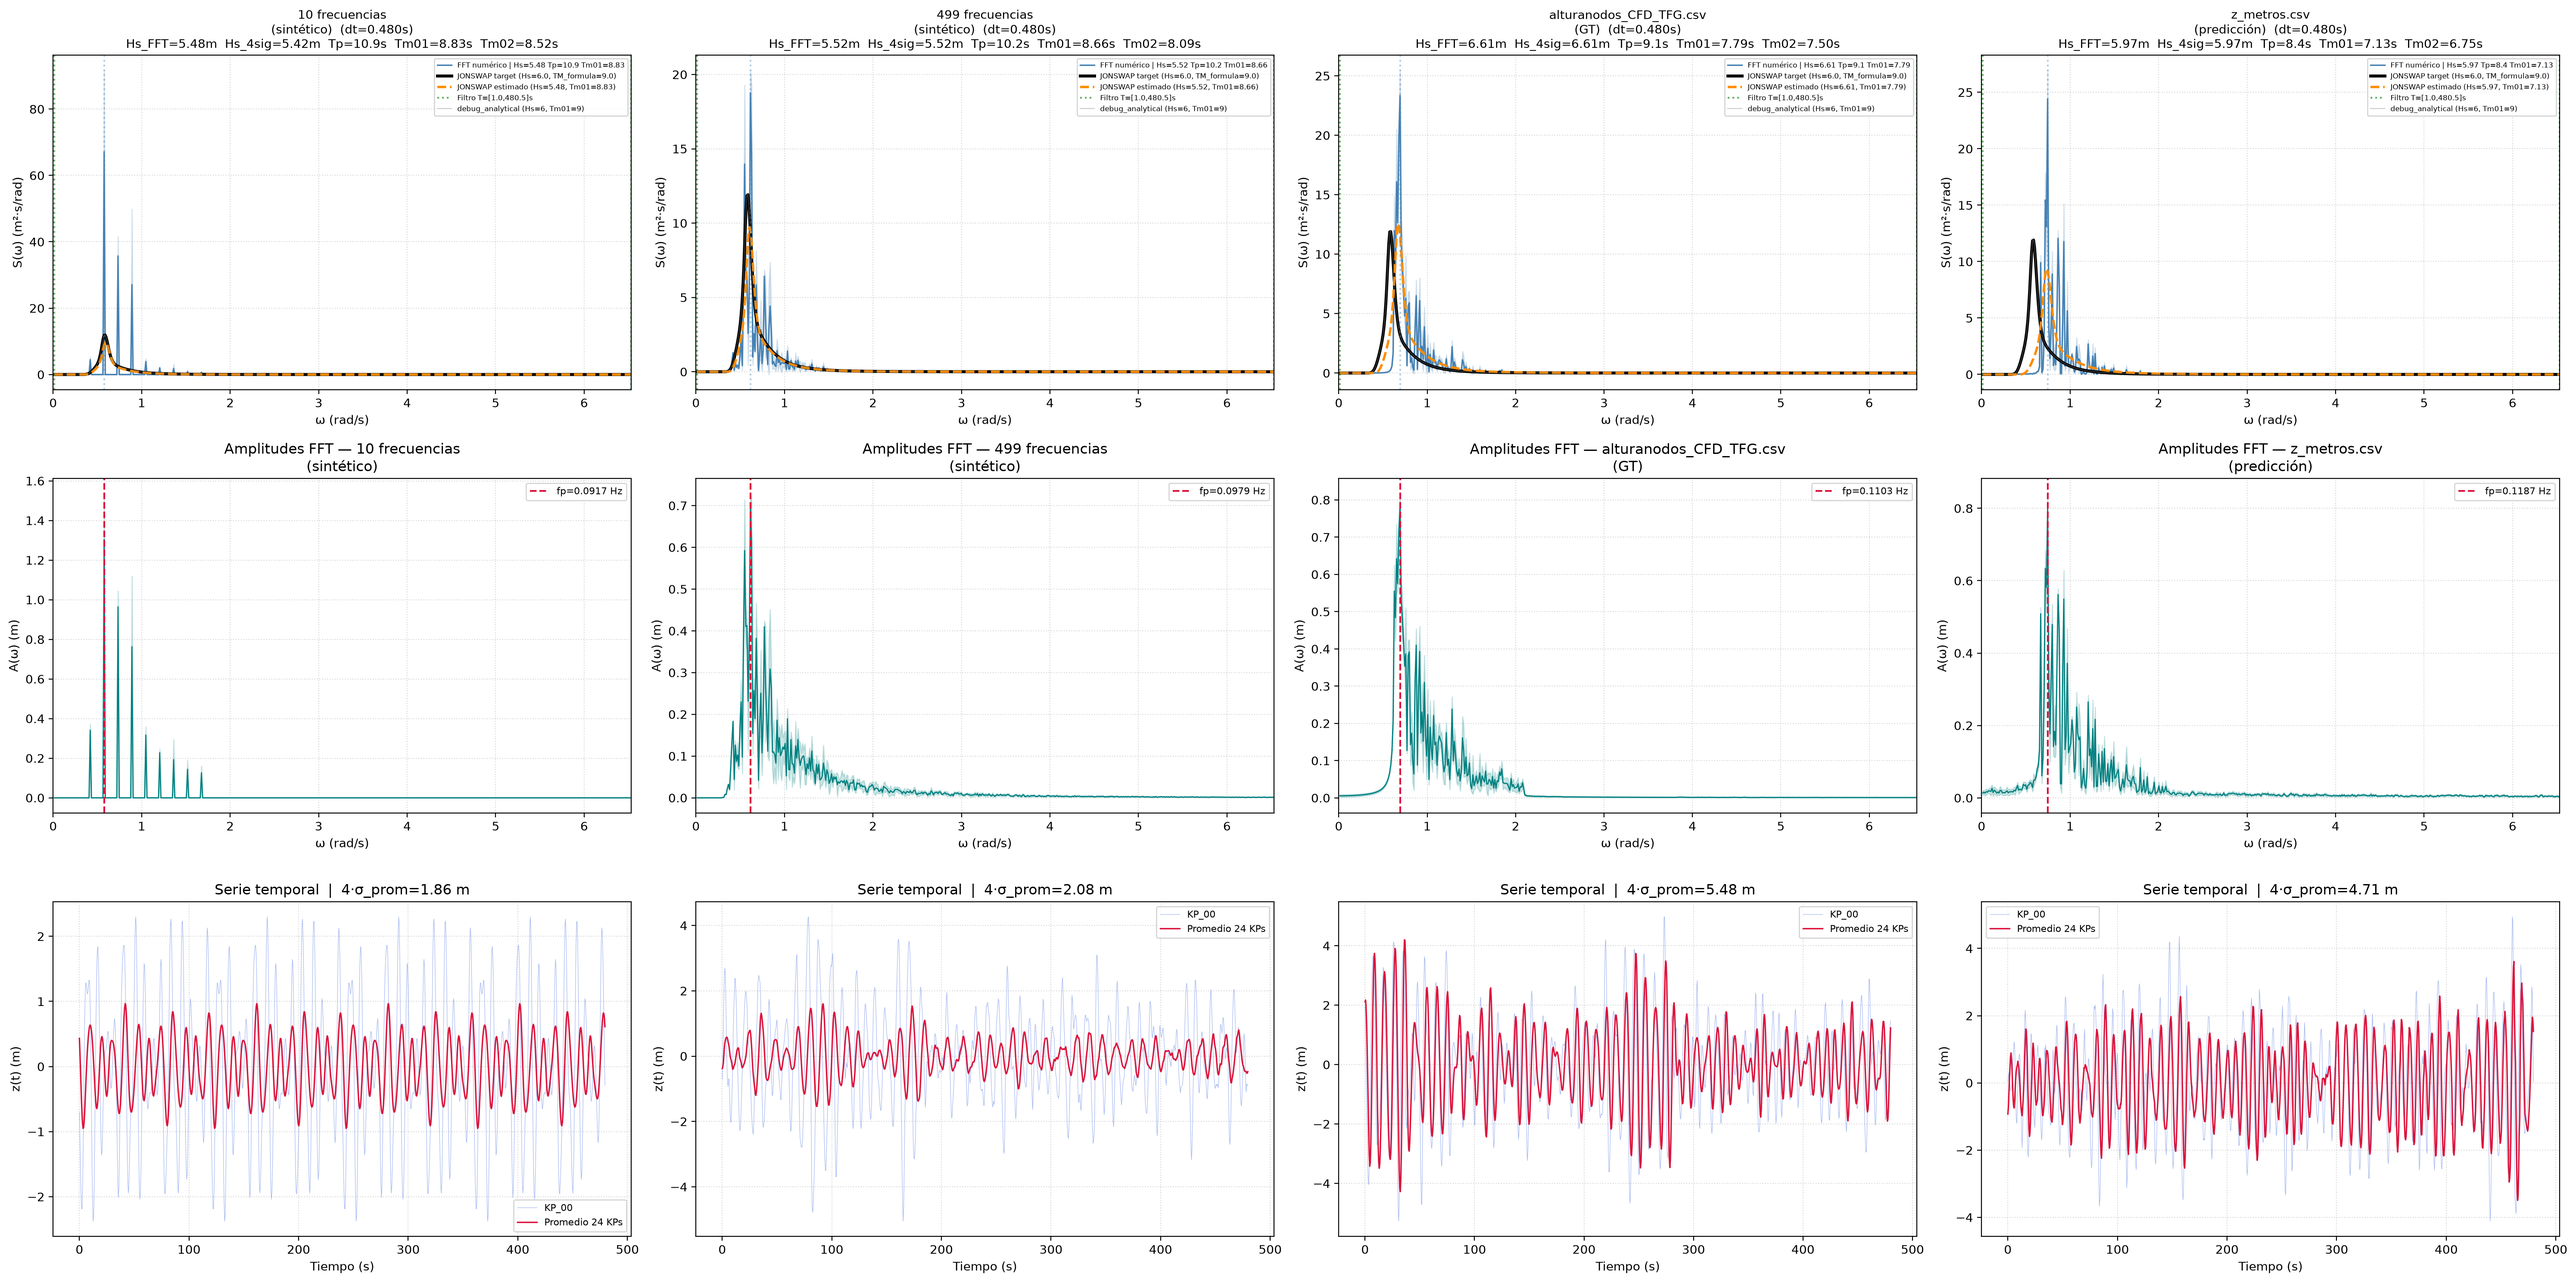
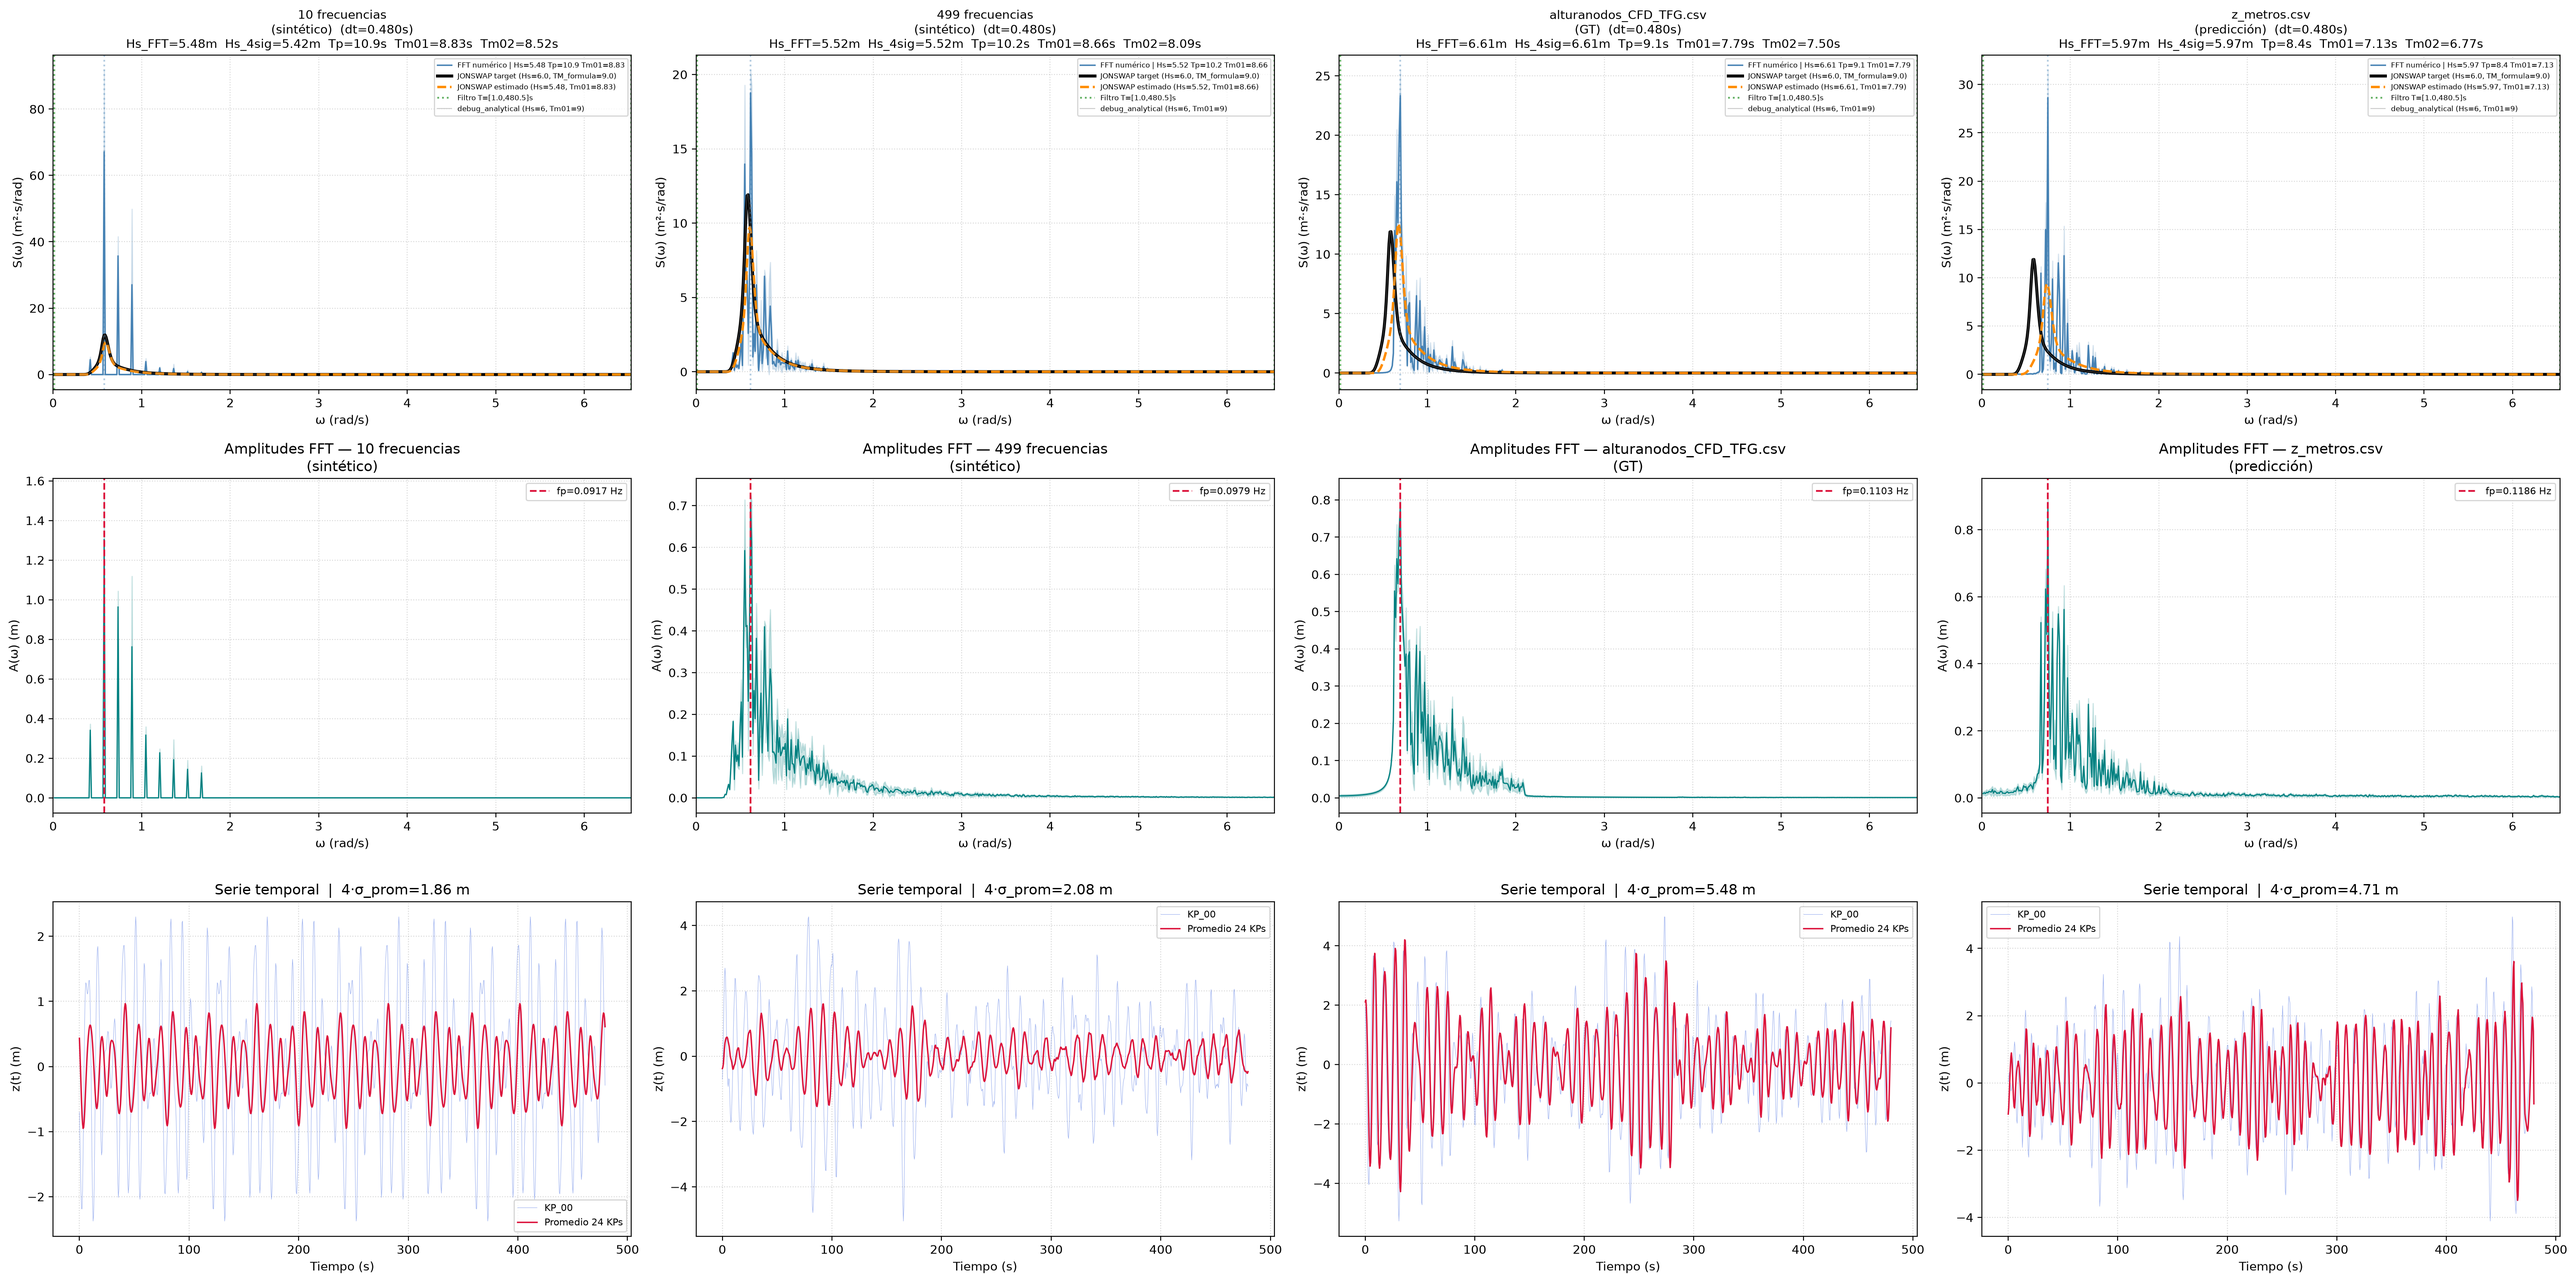
Añado cambios del nuevo CFD

diff --git a/config.py b/config.py
@@ -42,13 +42,18 @@ CARPETAS_IMAGENES_DIVIDIDAS = {
     "test":  os.path.join(RUTA_DATASET, "test",  "images"),
 }
 
-CARPETAS_LABELS_GT_DIVIDIDAS = {
-    "train": os.path.join(RUTA_DATASET, "train", "labels"),
-    "val":   os.path.join(RUTA_DATASET, "val",   "labels"),
-    "test":  os.path.join(RUTA_DATASET, "test",  "labels"),
-}
 
 RUTA_DATASET_YAML = os.path.join(RUTA_DATASET, "dataset.yaml")
+
+RUTA_DATASET_NUEVO = r"C:\ensayo correcto TFG\datasetcorrecto1000frames\dataset_CFD_mejorado"
+
+CARPETAS_LABELS_CFD_DIVIDIDAS = [
+    os.path.join(RUTA_DATASET_NUEVO, "train", "labels"),
+    os.path.join(RUTA_DATASET_NUEVO, "val",   "labels"),
+    os.path.join(RUTA_DATASET_NUEVO, "test",  "labels"),
+]
+
+RUTA_Z_METROS_PRED = os.path.join(RUTA_DATASET_NUEVO, "elevacion_CFD_metros.csv")
 
 # ─────────────────────────────────────────────────────────────────
 # PARÁMETROS DE IMAGEN / DATASET

diff --git a/main.py b/main.py
@@ -39,11 +39,11 @@ from modules import (
 RUN_SAFE_MODE = True
 
 isTrainingRequired         = False   # entrena el modelo desde cero (tarda horas)
-isPredictionRequired       = False   # corre YOLO sobre train/val/test
+isPredictionRequired       = True   # corre YOLO sobre train/val/test
 isVideoRequired             = False   # genera vídeos superpuesto + subplot
-isPixelToMetrosRequired    = False   # convierte labels predichos -> z_metros.csv
-isFFTPredRequired          = False   # FFT 1D + 3D de la PREDICCIÓN
-isFFTGTRequired            = True   # FFT 1D + 3D del GROUNDTRUTH
+isPixelToMetrosRequired    = True   # convierte labels predichos -> z_metros.csv
+isFFTPredRequired          = False  # FFT 1D + 3D de la PREDICCIÓN
+isFFTGTRequired            = False   # FFT 1D + 3D del GROUNDTRUTH
 isBeamformingRequired      = False  # activar beamforming
 isBeamformingPred          = False  # aplicar sobre prediccion
 isBeamformingGT            = False # aplicar sobre GT (alturanodos.csv)

diff --git a/debug-jonswap/03_comparison/compare_nfreqs.py b/debug-jonswap/03_comparison/compare_nfreqs.py
@@ -352,7 +352,7 @@ print(f"  dt_cfd={dt_cfd:.4f}s, N_cfd={N_cfd} -> T_MIN={T_MIN:.2f}s, T_MAX={T_MA
 # para deducir su dt real igual que se hizo con el CFD
 # ============================================================
 print("\n[4/5] z_metros.csv (predicción)...")
-CSV_ZMETROS = os.path.join(SCRIPT_DIR, "..", "z_metros.csv")
+CSV_ZMETROS = r"C:\ensayo correcto TFG\datasetcorrecto1000frames\dataset_CFD_mejorado\elevacion_CFD_metros.csv"
 df_zmetros = pd.read_csv(CSV_ZMETROS, sep=";", header=0, index_col=0)
 cols_zmetros = [f"kp_{kp:02d}" for kp in range(24)]
 z_zmetros = df_zmetros[cols_zmetros].values.astype(float)
